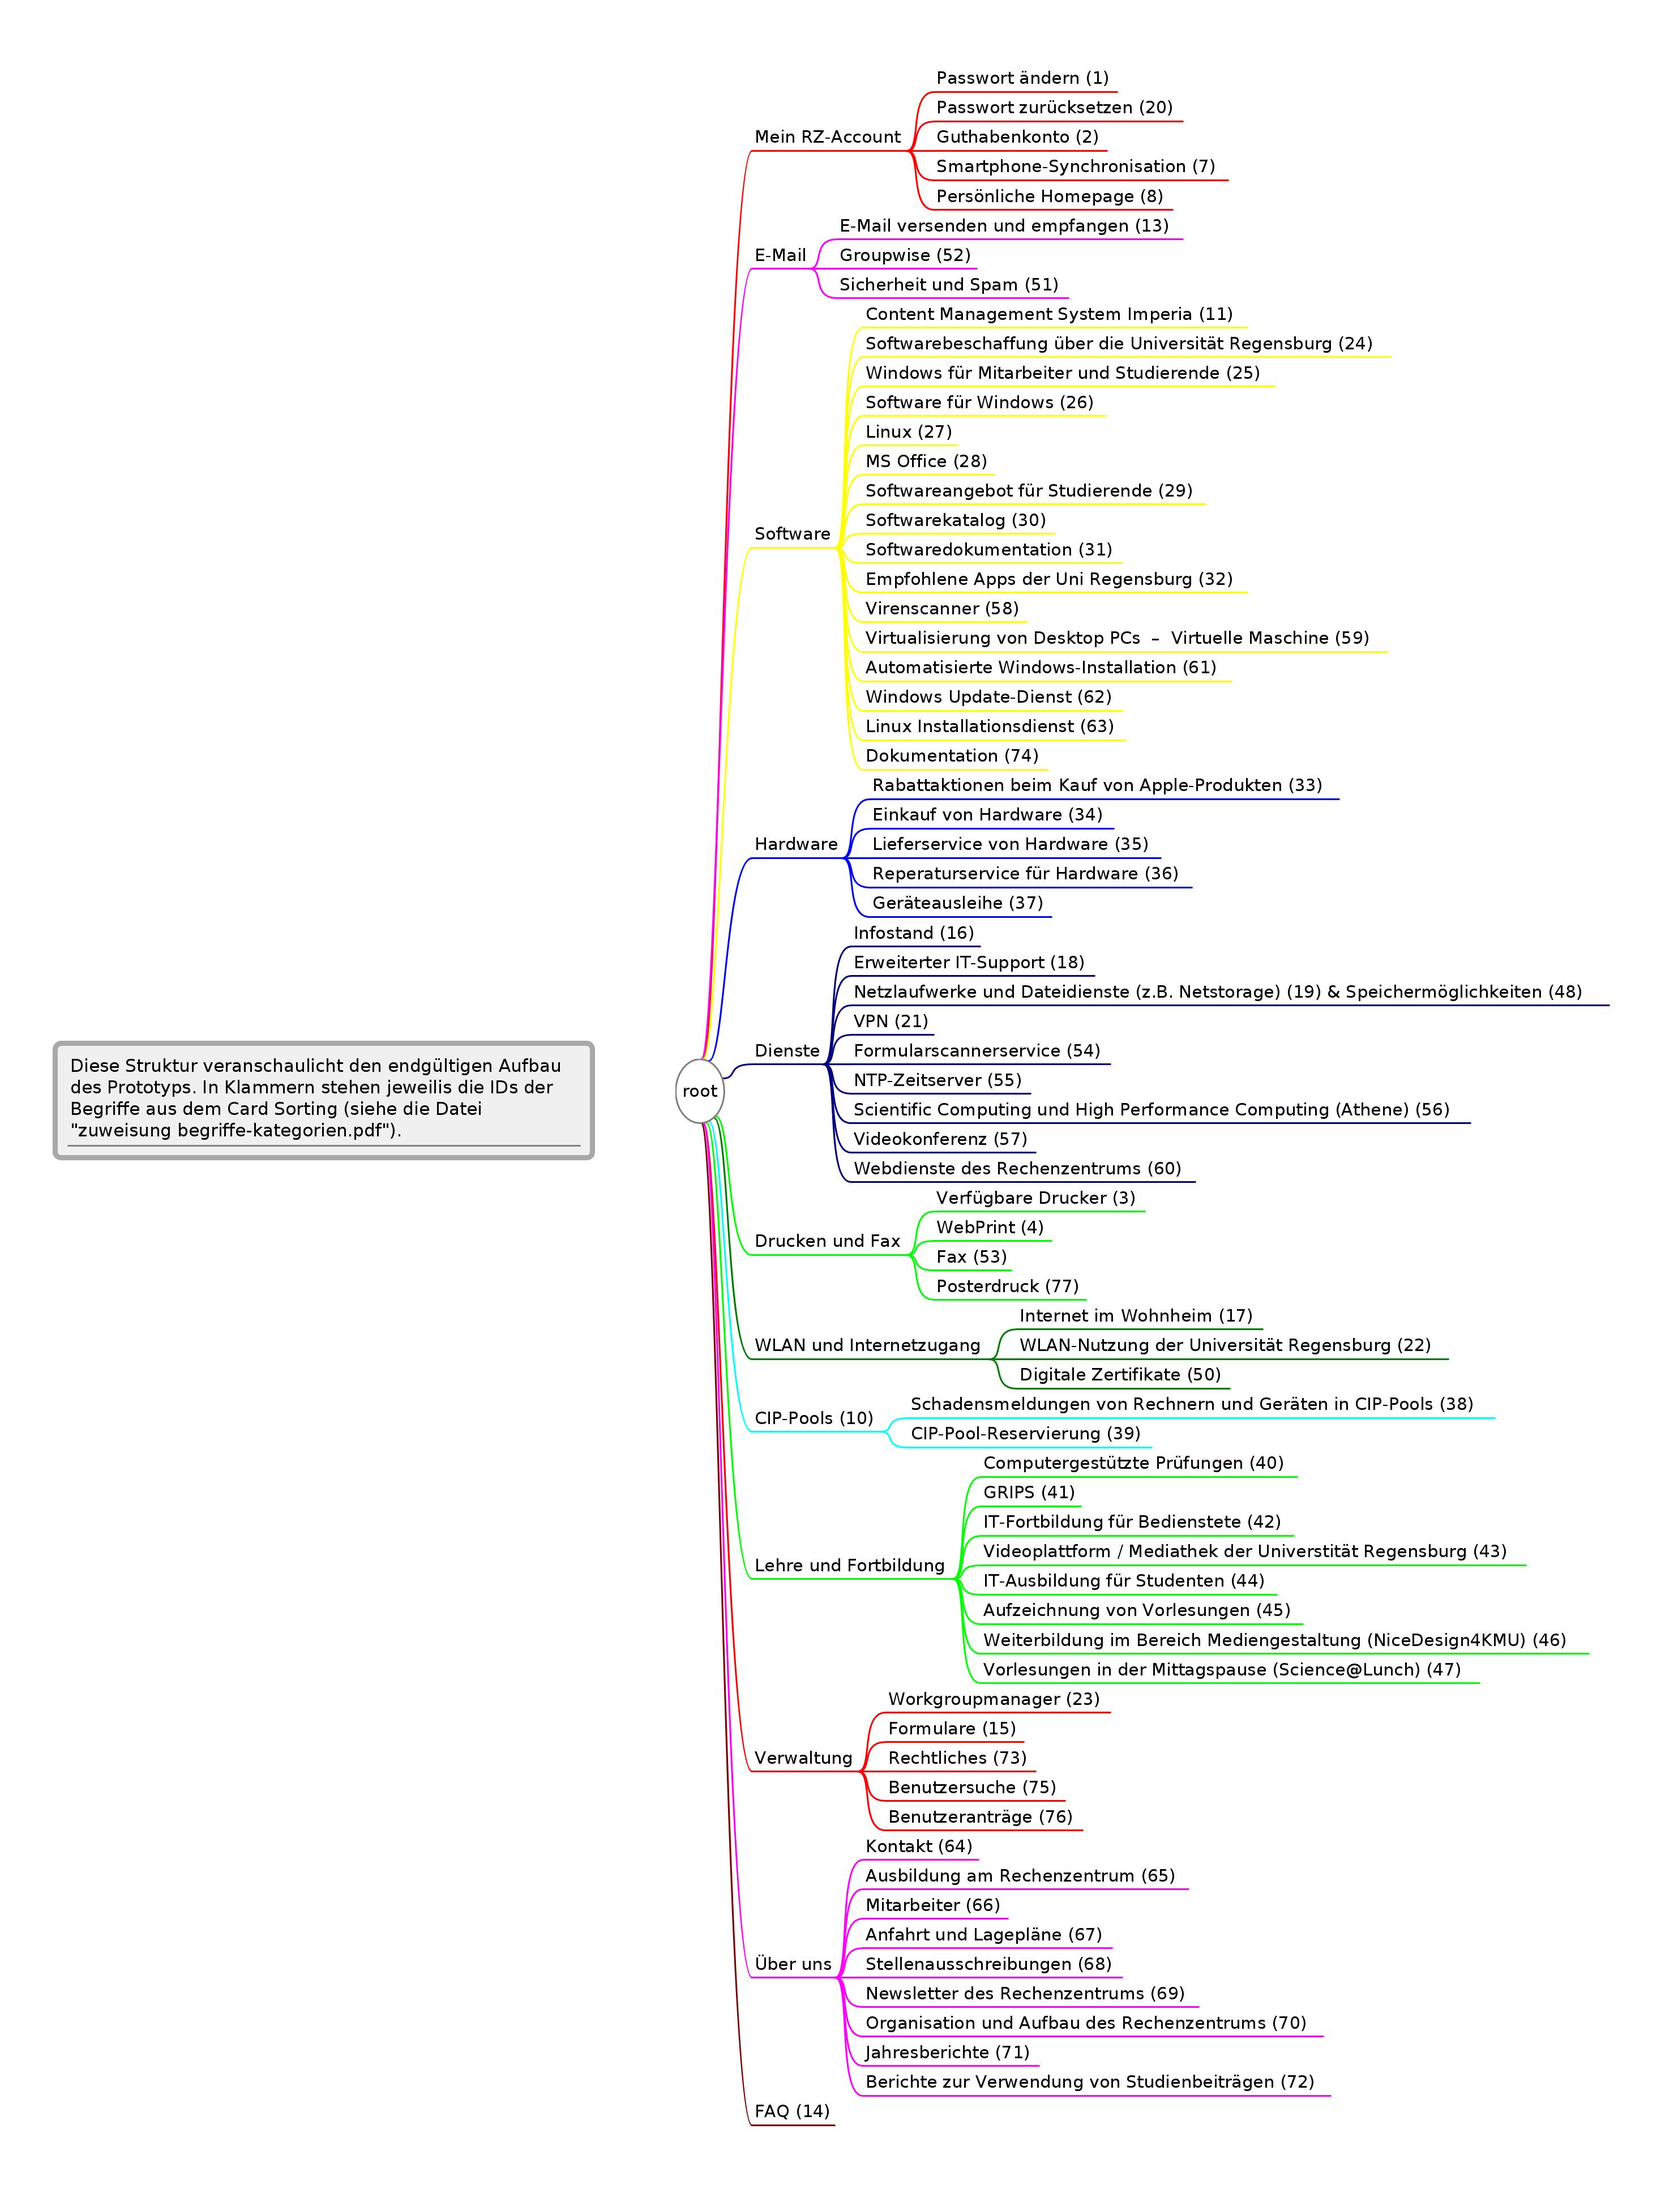
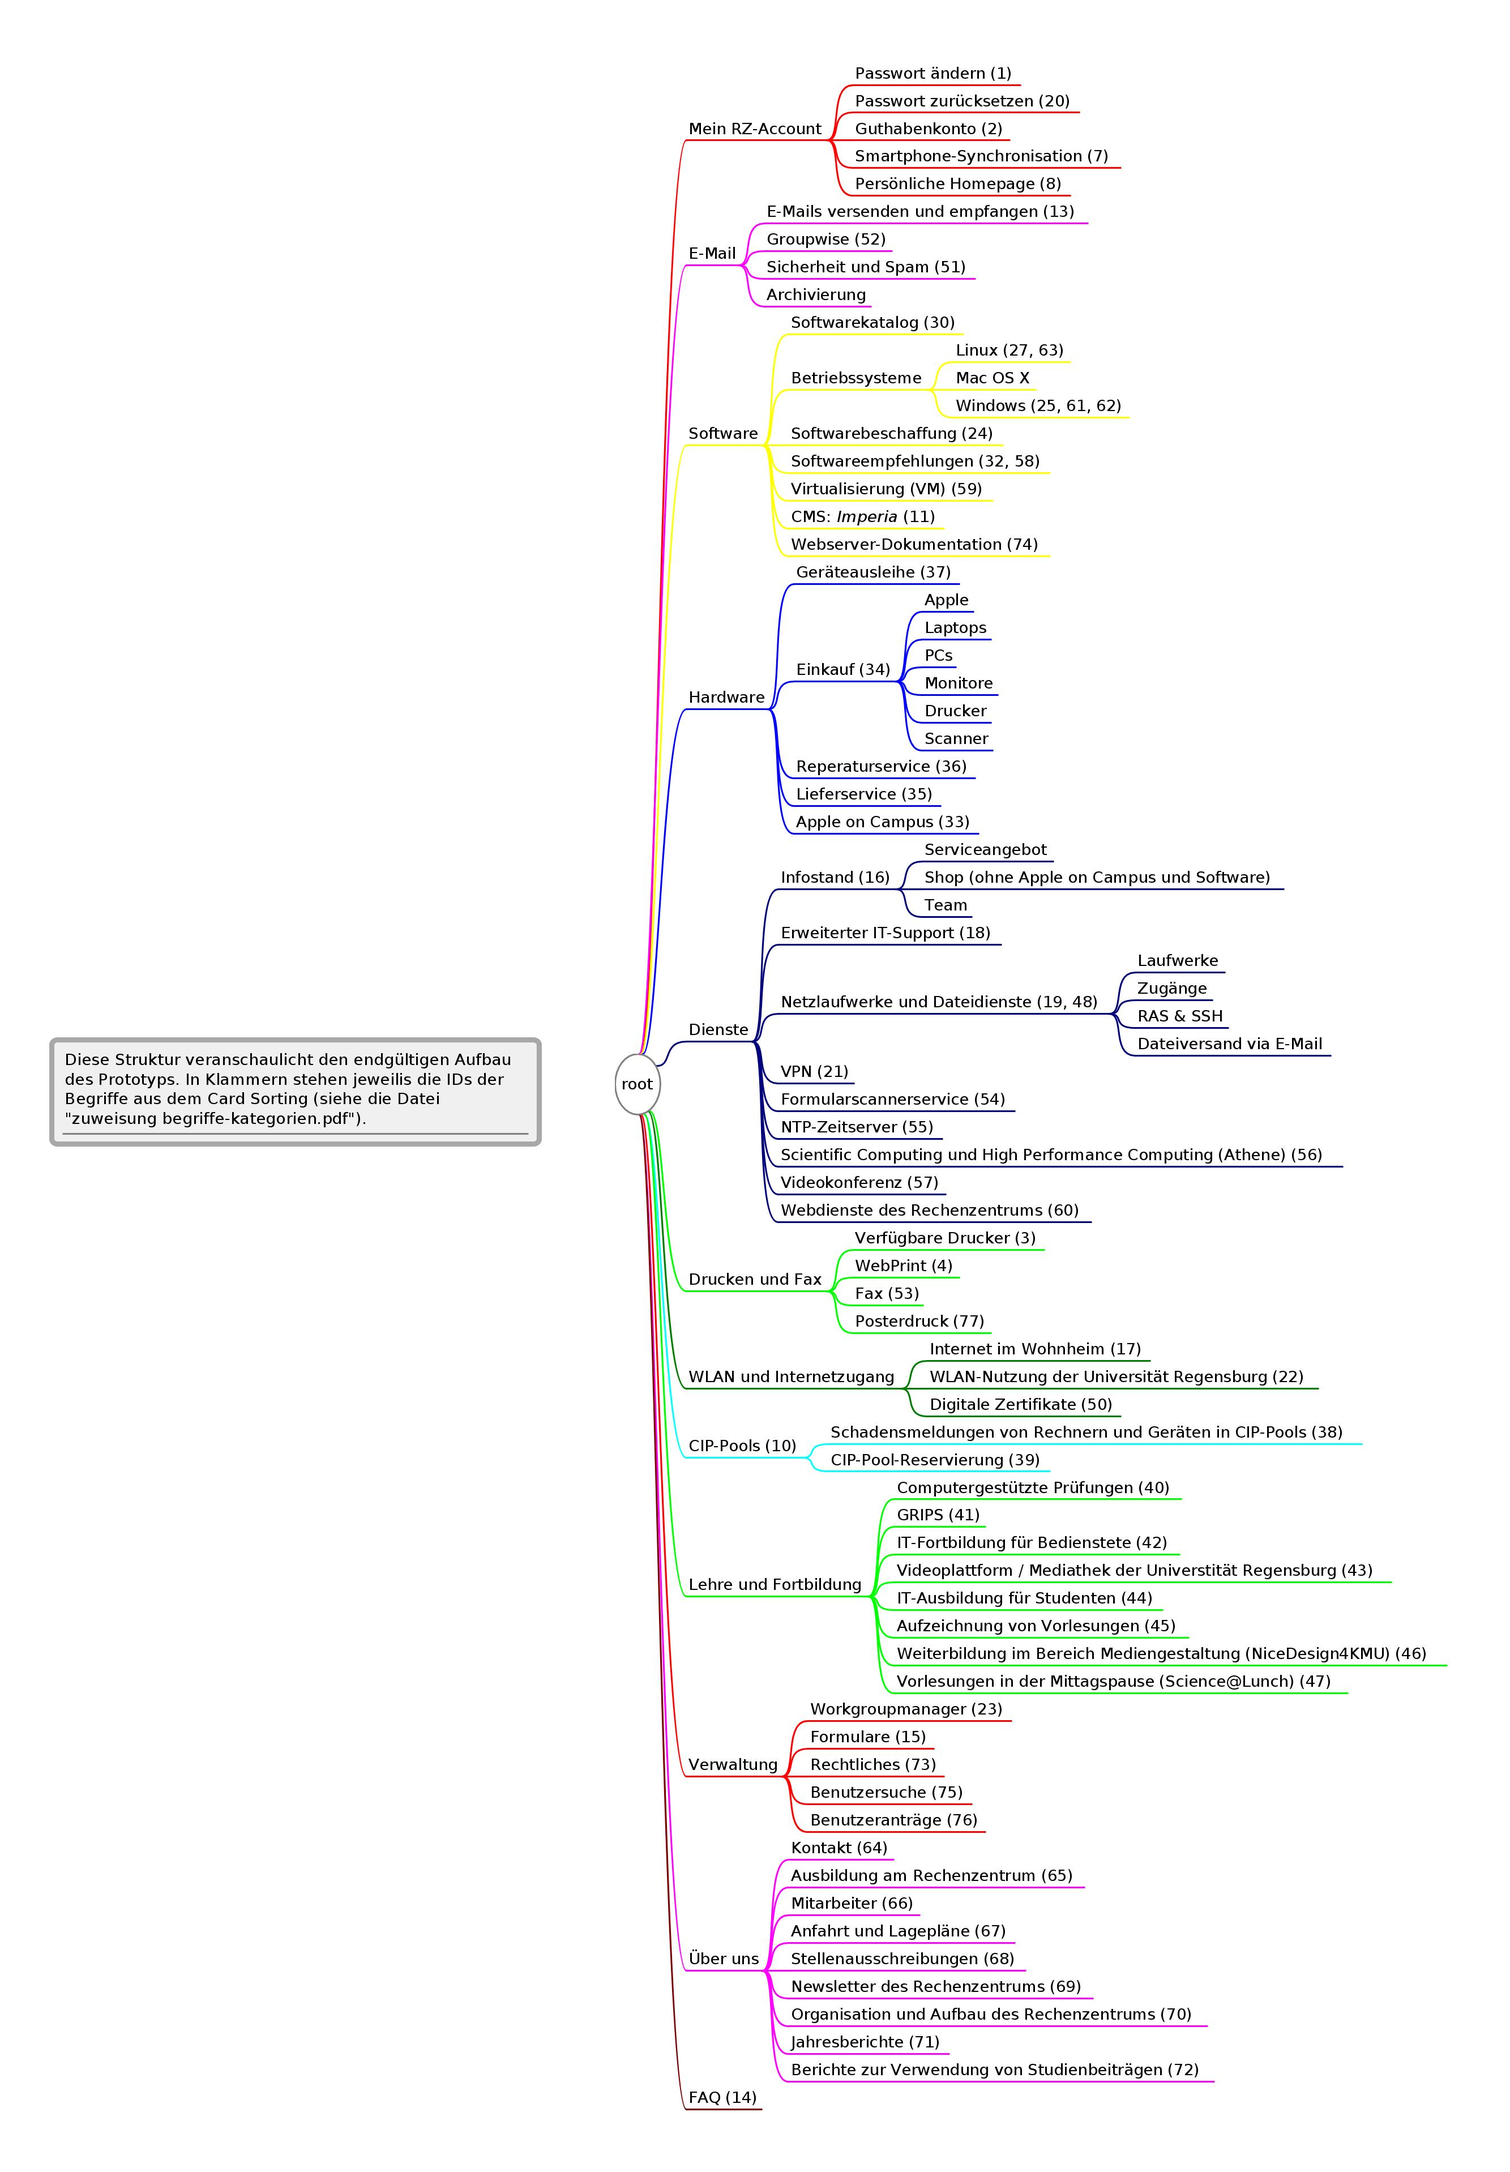
updated to current status

Changed region(s): [[0.4046, 0.031, 0.9336, 0.9617], [0.0311, 0.4653, 0.3735, 0.5274], [0.4668, 0.9617, 0.4979, 0.9927]]

diff --git a/Card Sorting/Ergebnisse/neue struktur.mm b/Card Sorting/Ergebnisse/neue struktur.mm
@@ -1,6 +1,6 @@
 <map version="freeplane 1.3.0">
 <!--To view this file, download free mind mapping software Freeplane from http://freeplane.sourceforge.net -->
-<node TEXT="root" ID="ID_1723255651" CREATED="1283093380553" MODIFIED="1441886948157"><hook NAME="MapStyle" zoom="0.75">
+<node TEXT="root" ID="ID_1723255651" CREATED="1283093380553" MODIFIED="1441886948157"><hook NAME="MapStyle" zoom="0.682">
     <properties show_note_icons="true"/>
 
 <map_styles>
@@ -61,42 +61,68 @@
 </node>
 <node TEXT="E-Mail" POSITION="right" ID="ID_1765525429" CREATED="1441869925215" MODIFIED="1441885850334">
 <edge COLOR="#ff00ff"/>
-<node TEXT="E-Mail versenden und empfangen (13)" ID="ID_153571769" CREATED="1441870161782" MODIFIED="1441884661367"/>
+<node TEXT="E-Mails versenden und empfangen (13)" ID="ID_153571769" CREATED="1441870161782" MODIFIED="1441887305845"/>
 <node TEXT="Groupwise (52)" ID="ID_163120556" CREATED="1441874900557" MODIFIED="1441884678263"/>
 <node TEXT="Sicherheit und Spam (51)" ID="ID_1440047222" CREATED="1441874898670" MODIFIED="1441886708276"/>
+<node TEXT="Archivierung" ID="ID_1543295457" CREATED="1441887128537" MODIFIED="1441887131981"/>
 </node>
 <node TEXT="Software" POSITION="right" ID="ID_1890092100" CREATED="1441869931909" MODIFIED="1441869934117">
 <edge COLOR="#ffff00"/>
-<node TEXT="Content Management System Imperia (11)" ID="ID_496886877" CREATED="1441870124410" MODIFIED="1441884780839"/>
-<node TEXT="Softwarebeschaffung &#xfc;ber die Universit&#xe4;t Regensburg (24)" ID="ID_965152581" CREATED="1441870448315" MODIFIED="1441884742247"/>
-<node TEXT="Windows f&#xfc;r Mitarbeiter und Studierende (25)" ID="ID_653088175" CREATED="1441871781432" MODIFIED="1441884750910"/>
-<node TEXT="Software f&#xfc;r Windows (26)" ID="ID_1584644035" CREATED="1441871796445" MODIFIED="1441884754946"/>
-<node TEXT="Linux (27)" ID="ID_62480224" CREATED="1441871800775" MODIFIED="1441884758902"/>
-<node TEXT="MS Office (28)" ID="ID_1466416717" CREATED="1441871804236" MODIFIED="1441884761992"/>
-<node TEXT="Softwareangebot f&#xfc;r Studierende (29)" ID="ID_1625603321" CREATED="1441871809371" MODIFIED="1441884765983"/>
 <node TEXT="Softwarekatalog (30)" ID="ID_667733682" CREATED="1441871831716" MODIFIED="1441884772416"/>
-<node TEXT="Softwaredokumentation (31)" ID="ID_1416097091" CREATED="1441871837441" MODIFIED="1441884789969"/>
-<node TEXT="Empfohlene Apps der Uni Regensburg (32)" ID="ID_1154819793" CREATED="1441871842737" MODIFIED="1441884793801"/>
-<node TEXT="Virenscanner (58)" ID="ID_1960281034" CREATED="1441875890330" MODIFIED="1441884822074"/>
-<node TEXT="Virtualisierung von Desktop PCs  &#x2013;  Virtuelle Maschine (59)" ID="ID_879663304" CREATED="1441875971298" MODIFIED="1441884828287"/>
-<node TEXT="Automatisierte Windows-Installation (61)" ID="ID_1049268960" CREATED="1441876116356" MODIFIED="1441884834843"/>
-<node TEXT="Windows Update-Dienst (62)" ID="ID_1103414913" CREATED="1441876126864" MODIFIED="1441884840526"/>
-<node TEXT="Linux Installationsdienst (63)" ID="ID_1861654135" CREATED="1441876132953" MODIFIED="1441884847399"/>
-<node TEXT="Dokumentation (74)" ID="ID_22704451" CREATED="1441877790226" MODIFIED="1441884858092"/>
+<node TEXT="Betriebssysteme" ID="ID_1610309575" CREATED="1441889708181" MODIFIED="1441889711825">
+<node TEXT="Linux (27, 63)" ID="ID_723023815" CREATED="1441889737833" MODIFIED="1441891630869"/>
+<node TEXT="Mac OS X" ID="ID_1224889352" CREATED="1441889750782" MODIFIED="1441889774792"/>
+<node TEXT="Windows (25, 61, 62)" ID="ID_1535960425" CREATED="1441889756082" MODIFIED="1441891646782"/>
+</node>
+<node TEXT="Softwarebeschaffung (24)" ID="ID_965152581" CREATED="1441870448315" MODIFIED="1441890106738"/>
+<node TEXT="Softwareempfehlungen (32, 58)" ID="ID_1154819793" CREATED="1441871842737" MODIFIED="1441891118002"/>
+<node TEXT="Virtualisierung (VM) (59)" ID="ID_879663304" CREATED="1441875971298" MODIFIED="1441892010194"/>
+<node ID="ID_496886877" CREATED="1441870124410" MODIFIED="1441890994166"><richcontent TYPE="NODE">
+
+<html>
+  <head>
+    
+  </head>
+  <body>
+    <p>
+      CMS: <i>Imperia </i>(11)
+    </p>
+  </body>
+</html>
+
+</richcontent>
+</node>
+<node TEXT="Webserver-Dokumentation (74)" ID="ID_466391093" CREATED="1441888013301" MODIFIED="1441888043240"/>
 </node>
 <node TEXT="Hardware" POSITION="right" ID="ID_189916393" CREATED="1441871853709" MODIFIED="1441871859718">
 <edge COLOR="#0000ff"/>
-<node TEXT="Rabattaktionen beim Kauf von Apple-Produkten (33)" ID="ID_1914333919" CREATED="1441871982940" MODIFIED="1441885010068"/>
-<node TEXT="Einkauf von Hardware (34)" ID="ID_1460123355" CREATED="1441872042741" MODIFIED="1441885013448"/>
-<node TEXT="Lieferservice von Hardware (35)" ID="ID_409237758" CREATED="1441872049124" MODIFIED="1441885017381"/>
-<node TEXT="Reperaturservice f&#xfc;r Hardware (36)" ID="ID_940397624" CREATED="1441872059130" MODIFIED="1441885022851"/>
 <node TEXT="Ger&#xe4;teausleihe (37)" ID="ID_308391072" CREATED="1441872077121" MODIFIED="1441885027421"/>
+<node TEXT="Einkauf (34)" ID="ID_1460123355" CREATED="1441872042741" MODIFIED="1441892480970">
+<node TEXT="Apple" ID="ID_1015831479" CREATED="1441892324920" MODIFIED="1441892326777"/>
+<node TEXT="Laptops" ID="ID_801001285" CREATED="1441892321557" MODIFIED="1441892323099"/>
+<node TEXT="PCs" ID="ID_1813831580" CREATED="1441892318607" MODIFIED="1441892320918"/>
+<node TEXT="Monitore" ID="ID_703076636" CREATED="1441892328934" MODIFIED="1441892331569"/>
+<node TEXT="Drucker" ID="ID_1836600201" CREATED="1441892327478" MODIFIED="1441892328574"/>
+<node TEXT="Scanner" ID="ID_244453620" CREATED="1441892332302" MODIFIED="1441892333536"/>
+</node>
+<node TEXT="Reperaturservice (36)" ID="ID_940397624" CREATED="1441872059130" MODIFIED="1441892484395"/>
+<node TEXT="Lieferservice (35)" ID="ID_409237758" CREATED="1441872049124" MODIFIED="1441892487459"/>
+<node TEXT="Apple on Campus (33)" ID="ID_1914333919" CREATED="1441871982940" MODIFIED="1441892590915"/>
 </node>
 <node TEXT="Dienste" POSITION="right" ID="ID_72266525" CREATED="1441869938096" MODIFIED="1441869939341">
 <edge COLOR="#00007c"/>
-<node TEXT="Infostand (16)" ID="ID_1779496599" CREATED="1441870175017" MODIFIED="1441884876458"/>
+<node TEXT="Infostand (16)" ID="ID_1779496599" CREATED="1441870175017" MODIFIED="1441884876458">
+<node TEXT="Serviceangebot" ID="ID_1711660378" CREATED="1441893206635" MODIFIED="1441893210696"/>
+<node TEXT="Shop (ohne Apple on Campus und Software)" ID="ID_839351712" CREATED="1441893211521" MODIFIED="1441893222882"/>
+<node TEXT="Team" ID="ID_339770900" CREATED="1441893223395" MODIFIED="1441893224967"/>
+</node>
 <node TEXT="Erweiterter IT-Support (18)" ID="ID_916056347" CREATED="1441870205073" MODIFIED="1441884881137"/>
-<node TEXT="Netzlaufwerke und Dateidienste (z.B. Netstorage) (19) &amp; Speicherm&#xf6;glichkeiten (48)" ID="ID_474802615" CREATED="1441870219416" MODIFIED="1441884906497"/>
+<node TEXT="Netzlaufwerke und Dateidienste (19, 48)" ID="ID_474802615" CREATED="1441870219416" MODIFIED="1441893358843">
+<node TEXT="Laufwerke" ID="ID_1515953802" CREATED="1441893453691" MODIFIED="1441893455743"/>
+<node TEXT="Zug&#xe4;nge" ID="ID_595397903" CREATED="1441893457628" MODIFIED="1441893461188"/>
+<node TEXT="RAS &amp; SSH" ID="ID_371675725" CREATED="1441893461815" MODIFIED="1441893471028"/>
+<node TEXT="Dateiversand via E-Mail" ID="ID_811637180" CREATED="1441893473708" MODIFIED="1441893479436"/>
+</node>
 <node TEXT="VPN (21)" ID="ID_943488088" CREATED="1441870234732" MODIFIED="1441884912826"/>
 <node TEXT="Formularscannerservice (54)" ID="ID_1272693274" CREATED="1441875420042" MODIFIED="1441884924340"/>
 <node TEXT="NTP-Zeitserver (55)" ID="ID_1943471488" CREATED="1441875644041" MODIFIED="1441884929630"/>
